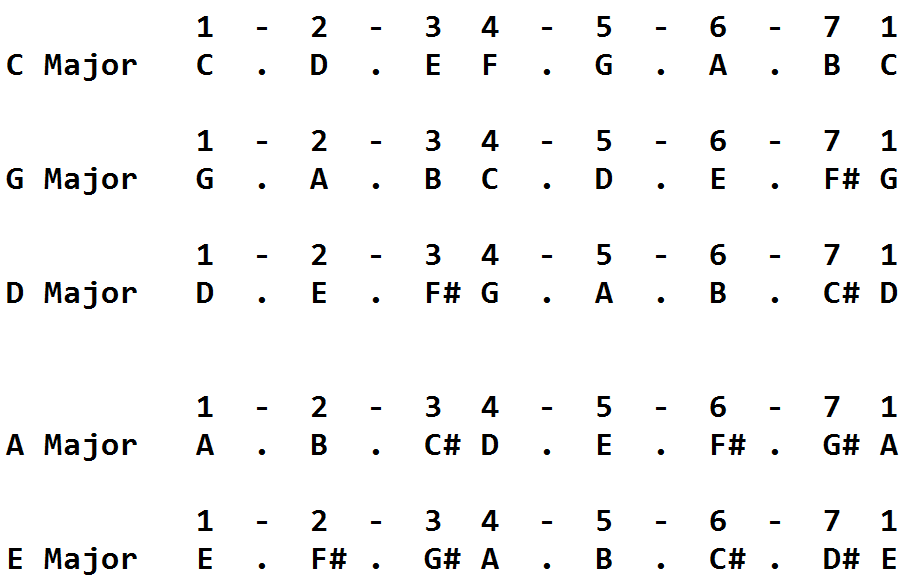
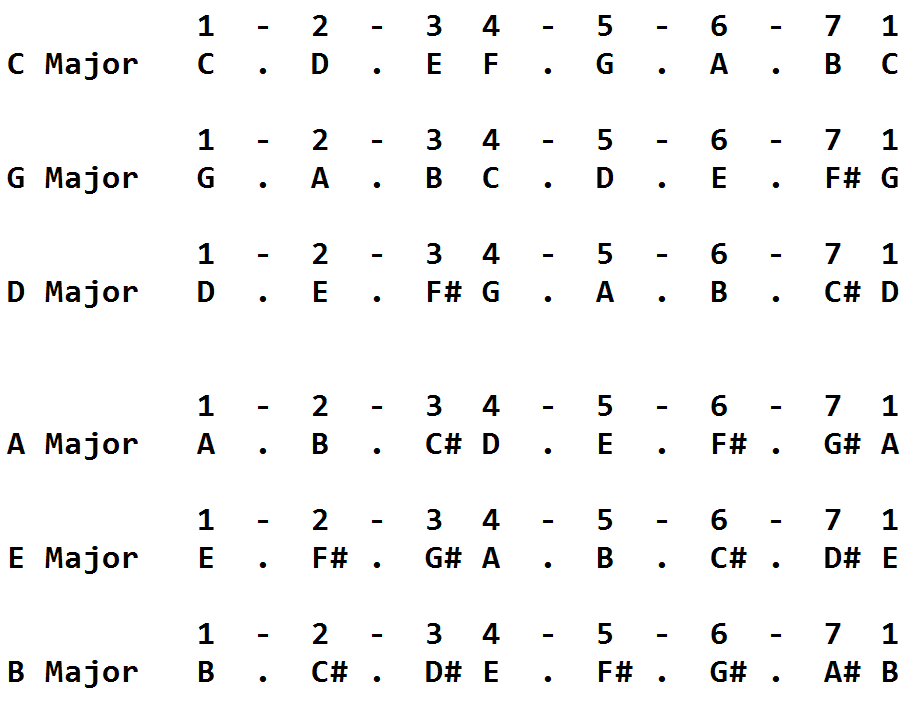
nt

diff --git a/other/music/index.html b/other/music/index.html
@@ -64,6 +64,10 @@ div {
     background-position: 269px -70px;
 }
 
+.set-b {
+    background-position: -65px -70px;
+}
+
 .scale-c {
     background-position: 0px 0px;
 }
@@ -84,14 +88,22 @@ div {
     background-position: 0px -494px;
 }
 
+.scale-b {
+    background-position: 0px -607px;
+}
+
 .keys {
     div {
-    background: orange;
-    display: inline-block;
-    width: 5em;
-    height: 5em;
-    margin: .25em;
-    border-radius: 10px;
+        background: orange;
+        display: inline-block;
+        margin: .25em;
+        width: 5em;
+        height: 5em;
+        max-width: 5em;
+        max-height: 5em;
+        border-radius: 10px;
+        font-weight: bold;
+        text-align: center;
     }
 }
 
@@ -123,6 +135,7 @@ div {
             <div onclick="on_key_click('d')"> D </div>
             <div onclick="on_key_click('a')"> A </div>
             <div onclick="on_key_click('e')"> E </div>
+            <div onclick="on_key_click('b')"> B </div>
         </div>
 
     </body>
@@ -132,7 +145,7 @@ div {
         function on_key_click(new_key) {
             console.log(new_key);
             
-            let keys = ['c', 'g', 'd', 'a', 'e'];
+            let keys = ['c', 'g', 'd', 'a', 'e', 'b'];
             let $board = $('#board');
             let $scale = $('#board-bottom');
 
